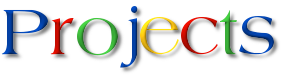
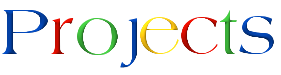
Added more responsive css and made projects pic transparent

diff --git a/src/App.css b/src/App.css
@@ -12,12 +12,18 @@ main {
   text-align: center;
   display: grid;
   gap: 2.5rem;
+  height: auto;
 }
 
 header {
   background: #344e41;
   color: #ffff;
   display: grid;
+}
+
+.image-container {
+  margin-left: 100px;
+  margin-right: 100px;
 }
 
 .projects-header {
@@ -29,7 +35,7 @@ header {
 body {
   margin: 0 auto;
   padding: 0 auto;
-  /* background: #dad7cd; */
+  background-color: #eaeded;
 }
 
 h1 {
@@ -60,24 +66,20 @@ h2 {
 .description {
   outline-color: black;
   outline: auto;
-  background-color: rgb(245, 241, 241);
-  margin: 0 25% 0.5rem;
+  background-color: #eaeded;
+  margin: 0 5% 0.5rem;
   border-radius: 0.4rem;
+  font-size: 1.5rem;
 }
 
 .description li {
   text-align: left;
+  padding: 0.5rem 1rem 0rem;
 }
 
-.column {
-  float: left;
-  width: 33.33%;
-}
-
-.column img {
-  width: 50%;
-  height: 140px;
-  border-radius: 0.5rem;
+.row {
+  margin: 0px 15%;
+  display: flex;
 }
 
 /* Clear floats after the columns */
@@ -87,11 +89,22 @@ h2 {
   clear: both;
 }
 
+.column {
+  width: 33.33%;
+}
+
+.column img {
+  width: 90%;
+  height: 140px;
+  border-radius: 0.5rem;
+}
+
 button {
-  width: 50%;
+  width: 90%;
   border-radius: 0.5rem;
   background-color: #17a2b8;
   color: #fff;
+  font-size: 24px;
 }
 
 @media only screen and (max-width: 900px) {
@@ -99,14 +112,20 @@ button {
     margin-left: 0.5rem;
   }
 
+  .row {
+    margin: 0 0;
+    display: flex;
+    flex-direction: column;
+    justify-content: center;
+    align-items: center;
+  }
   .column {
-    width: 100%;
-    float: none;
+    width: 75%;
     margin-bottom: 2rem;
   }
 
   .projects-header {
-    width: 50%;
+    width: 60%;
   }
 }
 
@@ -115,14 +134,27 @@ button {
     margin-left: 0.5rem;
   }
 
+  .row {
+    margin: 0 0;
+    display: flex;
+    flex-direction: column;
+    justify-content: center;
+    align-items: center;
+  }
+
   .column {
     width: 100%;
     float: none;
     margin-bottom: 2rem;
   }
 
+  .image-container {
+    margin: 0 0;
+  }
+
   .projects-header {
-    width: 50%;
+    width: auto;
+    height: 80px;
   }
 
   .column img {
@@ -131,9 +163,36 @@ button {
 
   .description {
     margin: 0 10% 0.5rem;
+    font-size: 1.5rem;
+  }
+
+  .description li {
+    padding: 0 0;
   }
 
   button {
     width: 80%;
+  }
+}
+
+@media only screen and (max-width: 400px) {
+  .projects-header {
+    width: auto;
+    height: 60px;
+  }
+
+  .description {
+    font-size: 1.2rem;
+  }
+}
+
+@media only screen and (max-width: 220px) {
+  .projects-header {
+    height: 40px;
+    width: auto;
+  }
+
+  .description {
+    font-size: 1.2rem;
   }
 }

diff --git a/src/App.jsx b/src/App.jsx
@@ -42,12 +42,14 @@ function App() {
         </div>
       </header>
       <main>
-        <img
-          src="/assets/projects.png"
-          alt="EmailFaster"
-          title="EmailFaster"
-          className="projects-header"
-        ></img>
+        <div className="image-container">
+          <img
+            src="/assets/projects.png"
+            alt="EmailFaster"
+            title="EmailFaster"
+            className="projects-header"
+          ></img>
+        </div>
         <div className="row">
           <div className="column">
             <img
